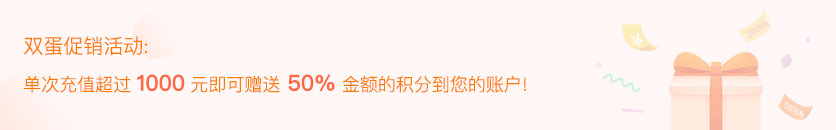
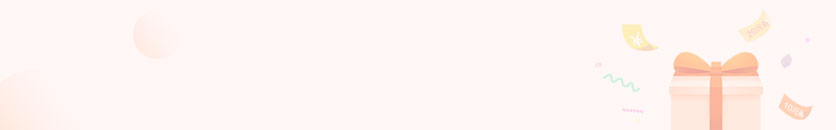
fix recharge

Changed region(s): [[0.0311, 0.5538, 0.622, 0.7385], [0.0311, 0.2769, 0.1866, 0.4308]]

diff --git a/client/app/bundles/Robin8/components/FinancialRechargePartial.jsx b/client/app/bundles/Robin8/components/FinancialRechargePartial.jsx
@@ -161,17 +161,22 @@ class FinancialRechargePartial extends React.Component {
                 <div className="recharge-content">
                   <div className="promotion-banner">
                     <img ref='' src={require('promotion_banner.jpg')} className="promotion-banner-img" />
+
+                    <div className="banner-info">
+                      <h5 className="title">双蛋促销活动:</h5>
+                      <p>单次充值超过<span className="num">1000</span>元即可赠送<span className="num">50%</span>金额的积分到您的账户!</p>
+                    </div>
                   </div>
 
                   <div className="form-horizontal recharge-form">
                     <div className="form-group recharge-form-item">
-                      <label className="col-sm-2 control-label">支付方式:</label>
+                      <label className="control-label">支付方式:</label>
                       <div className="col-sm-3 control-box">
                         <img src={require("alipay.png")} className="recharge-type-img" />
                       </div>
                     </div>
                     <div className="form-group recharge-form-item">
-                      <label className="col-sm-2 control-label">支付金额:</label>
+                      <label className="control-label">支付金额:</label>
                       <div className="col-sm-6 control-box">
                         <div className="input-group">
                           <input onInput={this.check_price.bind(this)} ref='priceInput' type="text" className="form-control input-small" placeholder="请输入金额" />
@@ -187,11 +192,11 @@ class FinancialRechargePartial extends React.Component {
                     </div>
 
                     <div className="form-group recharge-form-item">
-                      <label className="col-sm-2 control-label label-small">此次促销活动赠送:</label>
+                      <label className="control-label label-small">此次促销活动赠送:</label>
                       <div className="col-sm-6 control-box">
                         <div className="input-group">
-                          <input type="text" className="form-control input-small points-input" placeholder="请输入积分" />
-                          <span className="input-group-addon">积分</span>
+                          <input type="text" className="form-control input-small points-input" readOnly />
+                          <span className="input-group-addon">积分（10积分=1元）</span>
                         </div>
                       </div>
                     </div>
@@ -200,14 +205,14 @@ class FinancialRechargePartial extends React.Component {
                     </div>
 
                     <div className="form-group recharge-form-item">
-                      <label className="col-sm-2 control-label">邀请码(选填):</label>
+                      <label className="control-label">邀请码(选填):</label>
                       <div className="col-sm-6 control-box">
                         <input ref='marketingInviteCode' type="text" className="form-control input-small" placeholder="请输入邀请码(选填)" />
                       </div>
                     </div>
 
-                    <div className="form-group recharge-form-item">
-                      <div className="col-sm-offset-2 col-sm-6 control-box">
+                    <div className="form-group recharge-form-item mt40">
+                      <div className="col-sm-12">
                         <button onClick={this.recharge.bind(this)} className="btn btn-blue btn-default recharge-btn">立即充值</button>
                       </div>
                     </div>

diff --git a/client/assets/stylesheets/recharge/recharge.scss b/client/assets/stylesheets/recharge/recharge.scss
@@ -15,14 +15,17 @@
         line-height: 60px;
         font-size: 18px;
         width: 320px;
-        border-radius: 5px 5px 0 0;
+        border-radius: 10px 10px 0 0;
         text-decoration: none;
-        color: #181616;
+        font-weight: bold;
+        color: #000;
 
         &:nth-last-child(-n + 2) {
           margin-left: 5px;
-          background-image: url(~recharge_menu_bg.jpg);
-          color: #fff;
+          // background-image: url(~recharge_menu_bg.jpg);
+          background-color: #e9e9e9;
+          font-weight: normal;
+          // color: #fff;
         }
       }
     }
@@ -31,6 +34,7 @@
   .main-content {
     padding-top: 40px;
     background-color: #fff;
+    border-radius: 0 0 10px 10px;
     > div {
       margin-left: 122px;
       width: 756px;
@@ -347,7 +351,8 @@
   .line-title {
     position: relative;
     padding: 2px 24px;
-    font-size: 22px;
+    font-size: 20px;
+    font-weight: bold;
     &:before {
       position: absolute;
       top: 0;
@@ -403,8 +408,9 @@
   margin-top: 20px;
   .infos {
     padding-left: 24px;
-    font-size: 18px;
+    font-size: 16px;
     font-weight: normal;
+    color: #000;
     .sm {
       font-size: 14px;
       color: #4b4b4b;
@@ -414,8 +420,8 @@
     }
   }
   .avatar-img {
-    width: 116px;
-    height: 116px;
+    width: 100px;
+    height: 100px;
     border-radius: 50%;
     border: 1px solid #2dcad0;
   }
@@ -428,12 +434,33 @@
 .recharge-form {
   margin-top: 40px;
   .form-tips {
-    font-size: 12px;
+    font-size: 14px;
+    color: #4b4b4b;
   }
 }
 
 .promotion-banner {
+  position: relative;
   width: 100%;
+  .banner-info {
+    position: absolute;
+    top: 50%;
+    left: 0;
+    width: 100%;
+    padding: 0 24px;
+    font-size: 18px;
+    color: #ff7800;
+    -webkit-transform: translateY(-50%);
+    -ms-transform: translateY(-50%);
+    transform: translateY(-50%);
+    .title {
+      font-size: 20px;
+    }
+    .num {
+      padding: 0 6px;
+      font-size: 22px;
+    }
+  }
 }
 .promotion-banner-img {
   width: 100%;
@@ -442,14 +469,18 @@
 .recharge-form-item {
   width: 100%;
   .control-label {
+    float: left;
+    width: 20%;
     line-height: 34px;
     padding-top: 0;
-    padding-right: 0;
+    padding-left: 15px;
     text-align: left;
-    font-size: 14px;
+    font-size: 16px;
     font-weight: normal;
+    color: #000;
     &.label-small {
-      font-size: 12px;
+      font-size: 14px;
+      color: #4b4b4b;
     }
   }
   .control-box {
@@ -491,5 +522,8 @@
       color: rgb(206, 1, 1);
       font-size: 13px;
     }
+  }
+  &.mt40 {
+    margin-top: 40px;
   }
 }

diff --git a/client/assets/stylesheets/recharge/invoice.scss b/client/assets/stylesheets/recharge/invoice.scss
@@ -1,7 +1,7 @@
 .page-invoice {
   .menu {
     margin-top: 45px;
-    width: 1000px;
+    // width: 1000px;
     ul {
 
       height: 60px;
@@ -13,22 +13,28 @@
         line-height: 60px;
         font-size: 18px;
         width: 320px;
-        border-radius: 5px 5px 0 0;
+        border-radius: 10px 10px 0 0;
         text-decoration: none;
+        font-weight: bold;
+        color: #000;
 
         &:nth-child(1) {
-          background-image: url(~recharge_menu_bg.jpg);
-          color: #fff;
+          // background-image: url(~recharge_menu_bg.jpg);
+          // color: #fff;
+          background-color: #e9e9e9;
+          font-weight: normal;
         }
         &:nth-child(2) {
           margin-left: 5px;
-          background-image: url(~recharge_menu_bg.jpg);
-          color: #fff;
+          // background-image: url(~recharge_menu_bg.jpg);
+          // color: #fff;
+          background-color: #e9e9e9;
+          font-weight: normal;
         }
         &:nth-child(3) {
           margin-left: 5px;
           background-color: #fff;
-          color: #181616;
+          // color: #181616;
         }
       }
     }
@@ -37,6 +43,7 @@
     padding-top: 40px;
     background-color: #fff;
     width: 970px;
+    border-radius: 0 0 10px 10px;
 
     .invoice-nav {
       text-align: center;

diff --git a/client/assets/stylesheets/recharge/summary.scss b/client/assets/stylesheets/recharge/summary.scss
@@ -1,7 +1,7 @@
 .page-summary {
   .menu {
     margin-top: 45px;
-    width: 1000px;
+    // width: 1000px;
     ul {
 
       height: 60px;
@@ -13,24 +13,30 @@
         line-height: 60px;
         font-size: 18px;
         width: 320px;
-        border-radius: 5px 5px 0 0;
+        border-radius: 10px 10px 0 0;
         text-decoration: none;
+        font-weight: bold;
+        color: #000;
 
         &:nth-child(1) {
-          background-image: url(~recharge_menu_bg.jpg);
-          color: #fff;
+          // background-image: url(~recharge_menu_bg.jpg);
+          // color: #fff;
+          background-color: #e9e9e9;
+          font-weight: normal;
         }
 
         &:nth-child(2) {
           margin-left: 5px;
           background-color: #fff;
-          color: #181616;
+          // color: #181616;
         }
 
         &:nth-child(3) {
           margin-left: 5px;
-          background-image: url(~recharge_menu_bg.jpg);
-          color: #fff;
+          // background-image: url(~recharge_menu_bg.jpg);
+          // color: #fff;
+          background-color: #e9e9e9;
+          font-weight: normal;
         }
       }
     }
@@ -41,6 +47,7 @@
     padding-bottom: 60px;
     padding-left: 70px;
     background-color: #fff;
+    border-radius: 0 0 10px 10px;
 
     .cost-text {
       > span {

diff --git a/client/assets/stylesheets/base.scss b/client/assets/stylesheets/base.scss
@@ -18,7 +18,8 @@ body {
 
 body {
   color: #181616;
-  font-family: SimHei, "Segoe UI", Helvetica, Arial, "Microsoft YaHei", Arial, sans-serif;
+  // font-family: SimHei, "Segoe UI", Helvetica, Arial, "Microsoft YaHei", Arial, sans-serif;
+  font-family: -apple-system, BlinkMacSystemFont, Helvetica Neue, PingFang SC, Microsoft YaHei, Source Han Sans SC, Noto Sans CJK SC, WenQuanYi Micro Hei, sans-serif;
   font-size: 16px;
 }
 
